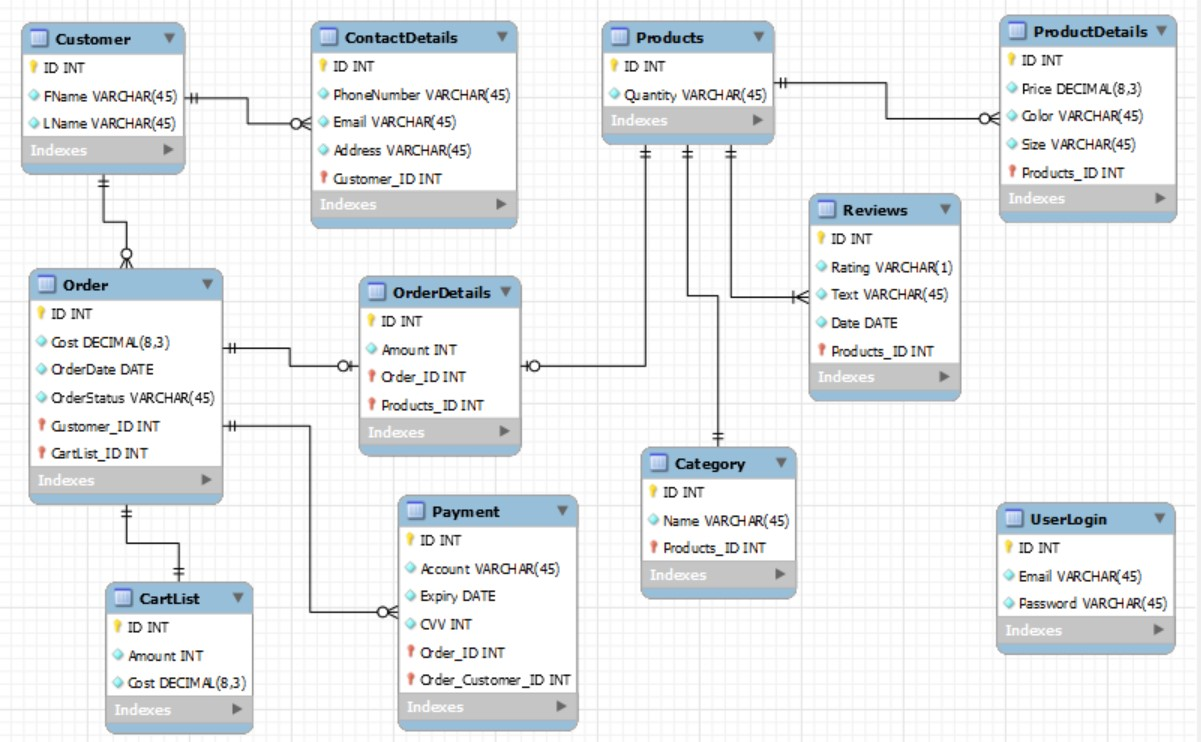
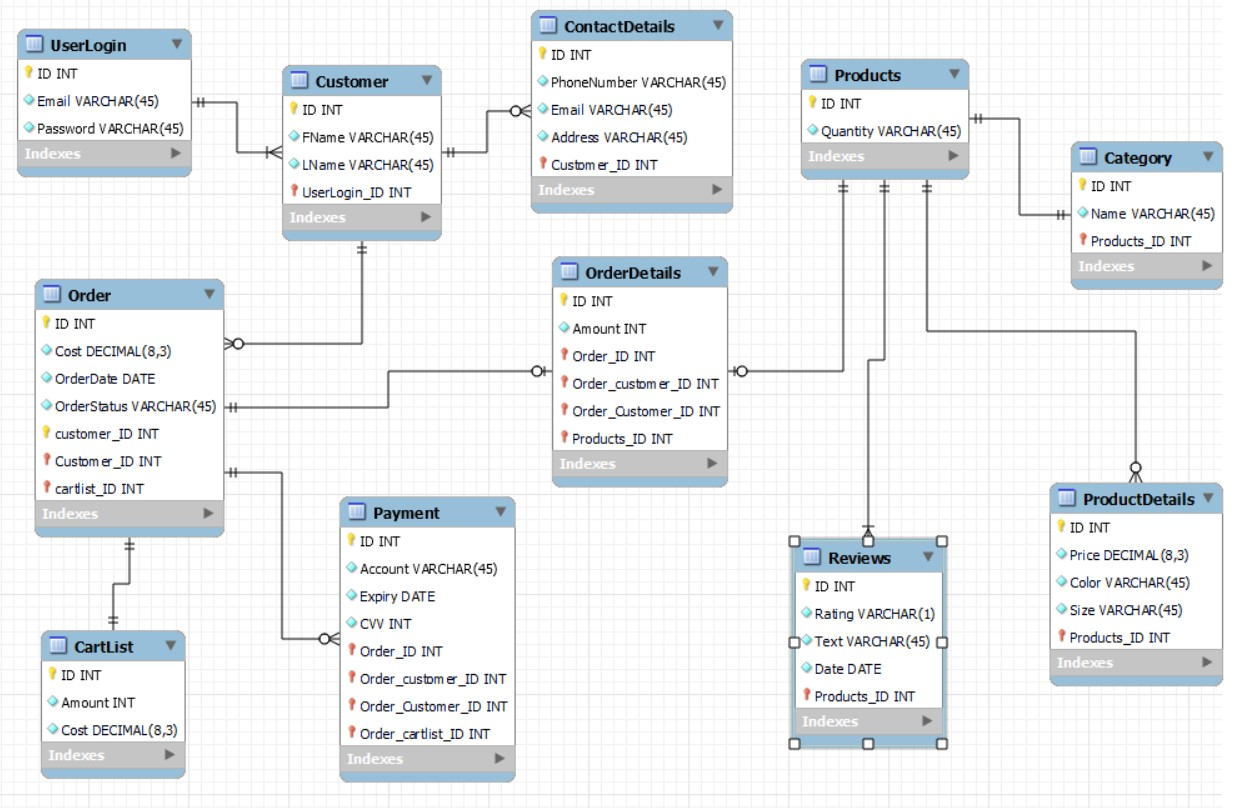
New MySQL EER Diagram

diff --git a/Code/client/src/Pages/pages.css b/Code/client/src/Pages/pages.css
@@ -20,6 +20,7 @@ body {
     margin: 5px;
     width: 100%;
     overflow: auto;
+    color: #326755;
 }
 
 .title{
